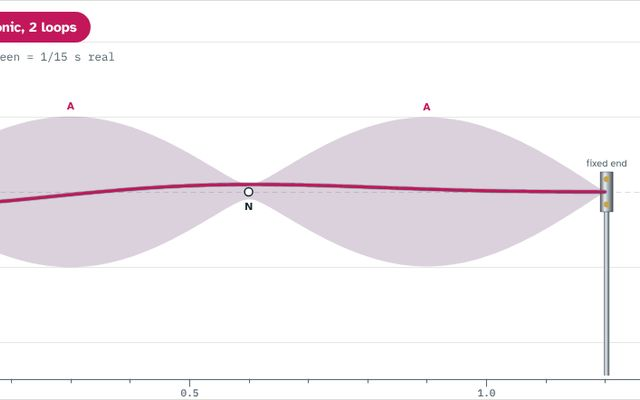
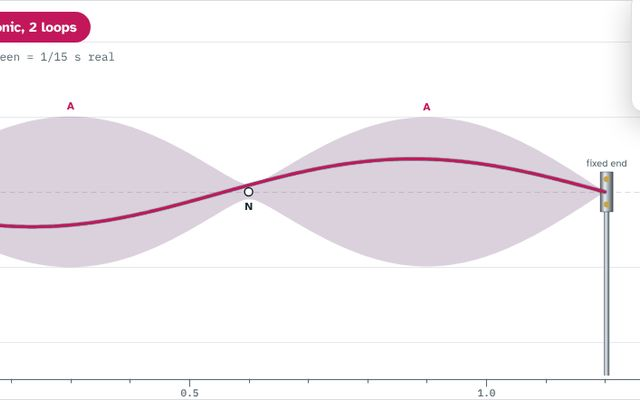
Resonance: Exercise screen and solving it in the lab
- New Exercise screen: either L and v (find f1, fn, wavelength, nodes) or L and a
  resonance f with its harmonic n (find v first). Numbers are checked against what
  the lab can do (L 0.6-1.5 m, v 16-40 m/s, up to 60 Hz). An Example button fills in one.
- "Solve it in the lab" sets L and v (the student drags, or "Do it for me"),
  works out f1 and fn and checks each on the string (resonance, n loops),
  shows the wavelength with the lab's own readout, the nodes and antinodes,
  and ends with a summary of the answers.

Claude-Session: https://claude.ai/code/session_01EJxk2nM6avKJzUWi38t4jE

Changed region(s): [[0.0, 0.39, 0.9375, 0.51], [0.0, 0.51, 0.2812, 0.57], [0.9688, 0.06, 1.0, 0.3]]

diff --git a/resonance-on-a-string.html b/resonance-on-a-string.html
@@ -164,6 +164,18 @@ ol.steps li::marker{font-family:var(--data);font-weight:600;color:var(--accent)}
 .stage-ui .seg{border:1px solid var(--line);border-radius:10px;width:100%}
 .stage-ui .seg button{border:0;border-radius:7px;background:none;padding:0 8px;border-right:0}
 .stage-ui .seg button[aria-pressed="true"]{background:var(--surface);color:var(--ink)}
+.stage-ui .solo-in{padding:8px 4px 24px}
+.stage-ui .exhead{display:flex;align-items:center;justify-content:space-between;gap:12px;flex-wrap:wrap}.stage-ui .exhead h2{font:800 1.4rem/1.2 var(--display)}
+.stage-ui .card{background:var(--surface);border:1px solid var(--line);border-radius:12px;padding:14px 16px;display:flex;flex-direction:column;gap:12px}
+.stage-ui .card h3{margin:0;font:700 15px/1.2 var(--body)}
+.stage-ui .exf .seg{width:auto;max-width:100%;flex-wrap:wrap}.stage-ui .exf .seg button{min-height:38px;white-space:normal}
+.stage-ui .exgrid{display:grid;grid-template-columns:repeat(auto-fill,minmax(220px,1fr));gap:12px 18px}
+.stage-ui .exgrid label{display:flex;flex-direction:column;gap:4px;font-weight:700;font-size:14px}
+.stage-ui .exgrid span{display:flex;align-items:center;gap:6px;font:600 14px var(--data);color:var(--muted)}
+.stage-ui .exgrid input,.stage-ui .exgrid select{width:7.5em;font:600 15px var(--data);padding:6px 8px;border:1.5px solid var(--line);border-radius:8px;background:var(--stage);color:var(--ink)}
+.stage-ui .exgrid input[aria-invalid="true"]{border-color:#C0392B}
+.stage-ui .exq ol{margin:0;padding-left:1.4em;display:flex;flex-direction:column;gap:6px}
+.stage-ui #exSolve svg{flex:none}
 </style>
 <link rel="stylesheet" href="site.css">
 
@@ -238,6 +250,21 @@ ol.steps li::marker{font-family:var(--data);font-weight:600;color:var(--accent)}
    </section>
   </aside>
  </section>
+  <section class="screen solo" data-screens="ex" hidden><div class="solo-in">
+   <div class="exhead"><h2>Exercise</h2><div class="transport"><button class="btn" type="button" id="exEg">Example</button><button class="btn primary" type="button" id="exSolve"><svg viewBox="0 0 24 24" width="18" height="18" aria-hidden="true"><path d="M8 5l11 7-11 7z" fill="currentColor"/></svg>Solve it in the lab</button></div></div>
+   <div class="card exf">
+    <div class="field"><span class="field-label" id="exKindL">What does your exercise give you?</span>
+     <div class="seg" id="exKind" role="group" aria-labelledby="exKindL"><button type="button" data-k="f" aria-pressed="true">L and v: find the frequencies</button><button type="button" data-k="v" aria-pressed="false">L and a resonance: find v</button></div></div>
+    <div class="exgrid">
+     <label>Length of the string L <span><input id="exL" type="number" inputmode="decimal" min="0.6" max="1.5" step="0.05" value="1.2"> m</span></label>
+     <label data-k="f">Wave speed v <span><input id="exV" type="number" inputmode="decimal" min="16" max="40" step="1" value="24"> m/s</span></label>
+     <label data-k="v" hidden>Resonance frequency f <span><input id="exF" type="number" inputmode="decimal" min="1" max="60" step="0.1" value="20"> Hz</span></label>
+     <label>Harmonic n <span><select id="exN"><option>1</option><option selected>2</option><option>3</option><option>4</option><option>5</option></select></span></label>
+    </div>
+    <p class="note" id="exMsg">The lab can do L from 0.60 to 1.50 m, v from 16 to 40 m/s and frequencies up to 60 Hz.</p>
+   </div>
+   <div class="card exq"><h3>Your exercise</h3><p id="exText"></p><ol id="exQs"></ol></div>
+  </div></section>
 </main>
 <p class="vh fine">Model: an ideal string obeying the damped wave equation, solved step by step in your browser. The vertical scale is stretched so the motion is easy to see, and the driver's own movement is drawn larger than it would be on a real bench.</p>
 <div hidden id="pdfSrc"><p class="eyebrow">Grade 11 physics · Standing waves</p><p class="lede">A vibrator shakes one end of a stretched string. Change how fast it shakes and watch the string. At a few special frequencies the string swings many times wider than the driver that feeds it.</p><div class="prose"><p>The driver sends a wave down the string. The wave reflects at the fixed end and travels back. The round trip takes 2L ÷ v seconds.</p><p>If that time equals a whole number of driver periods, each returning wave arrives exactly in step with the next push. Every push adds energy, and the swing grows until damping removes energy as fast as the driver supplies it. At any other frequency the returning waves arrive out of step and mostly cancel the new ones.</p></div><ol class="steps">
@@ -248,7 +275,7 @@ ol.steps li::marker{font-family:var(--data);font-weight:600;color:var(--accent)}
         <li>Switch damping between light and heavy and compare the height and width of the peaks.</li>
         <li>Hide the predicted curve and run a sweep, so the class sees the curve appear from measurements.</li>
       </ol></div>
-<script>window.LAB = { screens: [ { id: 'intro', name: 'Intro', simple: true }, { id: 'lab', name: 'Lab' } ] };</script>
+<script>window.LAB = { screens: [ { id: 'intro', name: 'Intro', simple: true }, { id: 'lab', name: 'Lab' }, { id: 'ex', name: 'Exercise' } ] };</script>
 <script src="https://cdnjs.cloudflare.com/ajax/libs/jspdf/2.5.1/jspdf.umd.min.js" defer></script>
 <script src="lab-viz.js"></script>
 <script>
@@ -945,8 +972,63 @@ if (window.ResizeObserver){
   window.addEventListener('resize', function(){ fit(stage); fit(plot); });
 }
 requestAnimationFrame(function(t){ lastT = t; requestAnimationFrame(frame); });
+
+/* ---------- Exercise: type your numbers, then solve it in the lab (tour.js) ---------- */
+var EX = { k: 'f', L: 1.2, v: 24, f: 20, n: 2 };
+function exRead(){
+  var num = function (id, lo, hi) { var el = $(id), x = parseFloat(String(el.value).replace(',', '.')), ok = isFinite(x) && x >= lo - 1e-9 && x <= hi + 1e-9; el.setAttribute('aria-invalid', ok ? 'false' : 'true'); return ok ? x : null; };
+  var L = num('exL', .6, 1.5), n = +$('exN').value, msg = '', ok = true, v, f;
+  if (L == null) { ok = false; msg = 'L must be between 0.60 and 1.50 m.'; } else L = Math.round(L / .05) * .05;
+  if (EX.k === 'f') { v = num('exV', 16, 40); if (v == null) { ok = false; msg = 'v must be between 16 and 40 m/s.'; } else { v = Math.round(v); if (L != null && n * v / (2 * L) > 60) { ok = false; msg = 'The ' + ordinal(n) + ' harmonic would be ' + (n * v / (2 * L)).toFixed(1) + ' Hz, above the 60 Hz the driver can do. Choose a smaller n.'; } } }
+  else { f = num('exF', 1, 60); if (f == null) { ok = false; msg = 'f must be between 1 and 60 Hz.'; } else if (L != null) { v = 2 * L * f / n; if (v < 16 || v > 40) { ok = false; msg = 'With these numbers v = 2Lf ÷ n = ' + v.toFixed(1) + ' m/s, outside the 16 to 40 m/s the lab can do.'; } } }
+  $('exMsg').textContent = ok ? 'Ready. Press “Solve it in the lab”.' : msg;
+  if (!ok) return null; EX.L = L; EX.n = n; if (EX.k === 'f') { EX.v = v; EX.f = n * v / (2 * L); } else { EX.f = f; EX.v = 2 * L * f / n; }
+  var Ls = EX.L.toFixed(2);
+  $('exText').textContent = EX.k === 'f' ? 'A string of length L = ' + Ls + ' m is fixed at both ends. Waves travel along it at v = ' + EX.v + ' m/s.' : 'A string of length L = ' + Ls + ' m, fixed at both ends, resonates at f = ' + EX.f + ' Hz in its ' + ordinal(n) + ' harmonic (' + n + (n > 1 ? ' loops' : ' loop') + ').';
+  $('exQs').innerHTML = (EX.k === 'f' ? ['Find the fundamental frequency f₁.', 'Find the frequency of the ' + ordinal(n) + ' harmonic, f' + sub(n) + '.', 'Find its wavelength λ' + sub(n) + '.', 'How many nodes and antinodes does it have?'] : ['Find the wave speed v.', 'Find the fundamental frequency f₁.', 'Find the wavelength λ' + sub(n) + '.', 'How many nodes and antinodes does it have?']).map(function (q) { return '<li>' + q + '</li>'; }).join('');
+  return EX;
+}
+Array.prototype.forEach.call($('exKind').querySelectorAll('button'), function (b) { b.onclick = function () { EX.k = b.dataset.k; Array.prototype.forEach.call($('exKind').querySelectorAll('button'), function (o) { o.setAttribute('aria-pressed', o === b ? 'true' : 'false'); });
+  document.querySelectorAll('.exgrid [data-k]').forEach(function (l) { l.hidden = l.dataset.k !== EX.k; }); exRead(); }; });
+['exL', 'exV', 'exF', 'exN'].forEach(function (id) { $(id).addEventListener('input', exRead); $(id).addEventListener('change', exRead); });
+$('exEg').onclick = function () { if (EX.k === 'f') { $('exL').value = 0.8; $('exV').value = 32; $('exN').value = 3; } else { $('exL').value = 1.0; $('exF').value = 30; $('exN').value = 2; } exRead(); };
+exRead();
+function exSolve(){
+  var E = exRead(); if (!E || !window.Tour) return;
+  var L = E.L, v = E.v, n = E.n, f1 = v / (2 * L), fn = n * f1, lam = 2 * L / n, Ls = L.toFixed(2), r1 = function (x) { return Math.round(x * 10) / 10; };
+  var setRange = function (el, x) { el.value = x; el.dispatchEvent(new Event('input', { bubbles: true })); };
+  var calc = function (t) { return '<div class="t-calc">' + t + '</div>'; };
+  var findV = E.k === 'v', qn = 0, Q = function () { return (++qn) + ' · '; };
+  var steps = [
+    { title: 'Solve it in the lab', html: '<p>' + $('exText').textContent + '</p><p>First we set up the same string in the lab, then we find each answer and check it on the string.</p>',
+      onShow: function () { var b = document.querySelector('.lg-nav [data-ph="lab"]'); if (b) b.click(); stopSweep(); S.playing = true; } },
+    { el: function () { return ui.len.closest('.field'); }, title: 'Set the length', html: '<p>Drag <b>Length L</b> to <b>' + Ls + ' m</b>.</p>',
+      wait: function () { return Math.abs(S.L - L) < .001; }, doIt: function () { setRange(ui.len, L); }, done: 'L = ' + Ls + ' m.', auto: 900 }
+  ];
+  if (findV) steps.push({ title: Q() + 'Find the wave speed', html: calc('fₙ = n · v ÷ 2L\nv = 2L · fₙ ÷ n = 2 × ' + Ls + ' × ' + E.f + ' ÷ ' + n + '\nv = ' + r1(v) + ' m/s') + '<p>Now give the string this wave speed in the lab.</p>' });
+  steps.push({ el: function () { return ui.speed.closest('.field'); }, title: findV ? 'Set the wave speed' : 'Set the wave speed', html: '<p>Drag <b>Wave speed v</b> to <b>' + Math.round(v) + ' m/s</b>.' + (Math.abs(v - Math.round(v)) > .01 ? ' (The slider moves in whole m/s, so the lab uses ' + Math.round(v) + '.)' : '') + '</p>',
+    wait: function () { return Math.abs(S.v - Math.round(v)) < .001; }, doIt: function () { setRange(ui.speed, Math.round(v)); }, done: 'v = ' + Math.round(v) + ' m/s.', auto: 900 });
+  var vL = Math.round(v), f1L = vL / (2 * L), fnL = n * f1L;
+  steps.push({ el: function () { return ui.freq.closest('.group'); }, title: Q() + 'The fundamental f₁',
+    html: calc('f₁ = v ÷ 2L = ' + vL + ' ÷ (2 × ' + Ls + ')\nf₁ = ' + f1L.toFixed(1) + ' Hz') + '<p>Check it: set the driver to <b>' + f1L.toFixed(1) + ' Hz</b>. Use the slider, the ±0.1 buttons or the 1st harmonic button.</p>',
+    wait: function () { return Math.abs(S.f - f1L) < .06; }, doIt: function () { S.f = r1(f1L); stopSweep(); },
+    done: 'Resonance: one loop. The whole string swings, with a node at each end and an antinode in the middle.' });
+  if (n > 1) steps.push({ el: function () { return ui.freq.closest('.group'); }, title: Q() + (findV ? 'Check the ' : 'The ') + ordinal(n) + ' harmonic',
+    html: calc('f' + sub(n) + ' = n · f₁ = ' + n + ' × ' + f1L.toFixed(1) + '\nf' + sub(n) + ' = ' + fnL.toFixed(1) + ' Hz') + '<p>Set the driver to <b>' + fnL.toFixed(1) + ' Hz</b> (or press the ' + ordinal(n) + ' button) and count the loops.</p>',
+    wait: function () { return Math.abs(S.f - fnL) < .06; }, doIt: function () { S.f = r1(fnL); stopSweep(); },
+    done: n + ' loops on the string: this is the ' + ordinal(n) + ' harmonic.' });
+  steps.push({ el: function () { return ui.rLambda.closest('.group'); }, title: Q() + 'The wavelength λ' + sub(n),
+    onShow: function () { var d = document.querySelector('details.maths'); if (d) d.open = true; },
+    html: calc('n half-wavelengths fit in L:\nL = n · λ ÷ 2  →  λ' + sub(n) + ' = 2L ÷ n = 2 × ' + Ls + ' ÷ ' + n + '\nλ' + sub(n) + ' = ' + (2 * L / n).toFixed(2) + ' m') + '<p>The lab shows the same: λ = v ÷ f = ' + vL + ' ÷ ' + fnL.toFixed(1) + ' = ' + (vL / fnL).toFixed(2) + ' m, and ' + n + ' half-waves fit in L.</p>' });
+  steps.push({ el: function () { return stage.el.closest('.scene'); }, title: Q() + 'Nodes and antinodes', onShow: function () { if (!S.labels) $('cLab').click(); },
+    html: '<p>Look at the string: N marks a node (it never moves), A an antinode (it swings the most).</p>' + calc('nodes     = n + 1 = ' + (n + 1) + ' (the two ends count)\nantinodes = n     = ' + n) });
+  steps.push({ title: 'Your answers', html: calc((findV ? 'v  = ' + r1(v) + ' m/s\n' : '') + 'f₁ = ' + (findV ? (v / (2 * L)).toFixed(1) : f1.toFixed(1)) + ' Hz\n' + (n > 1 || !findV ? 'f' + sub(n) + ' = ' + (findV ? E.f.toFixed(1) : fn.toFixed(1)) + ' Hz\n' : '') + 'λ' + sub(n) + ' = ' + lam.toFixed(2) + ' m\nnodes ' + (n + 1) + ', antinodes ' + n) + '<p>Compare them with your own working.</p>' });
+  setTimeout(function () { Tour.start(steps, { label: 'Exercise', skipText: 'Stop', doneText: 'Finish', lazy: true }); }, 80);
+}
+$('exSolve').onclick = exSolve;
 })();
 </script>
 
+<script src="tour.js" defer></script>
 <script src="lab-guide.js" defer></script>
 </body></html>
